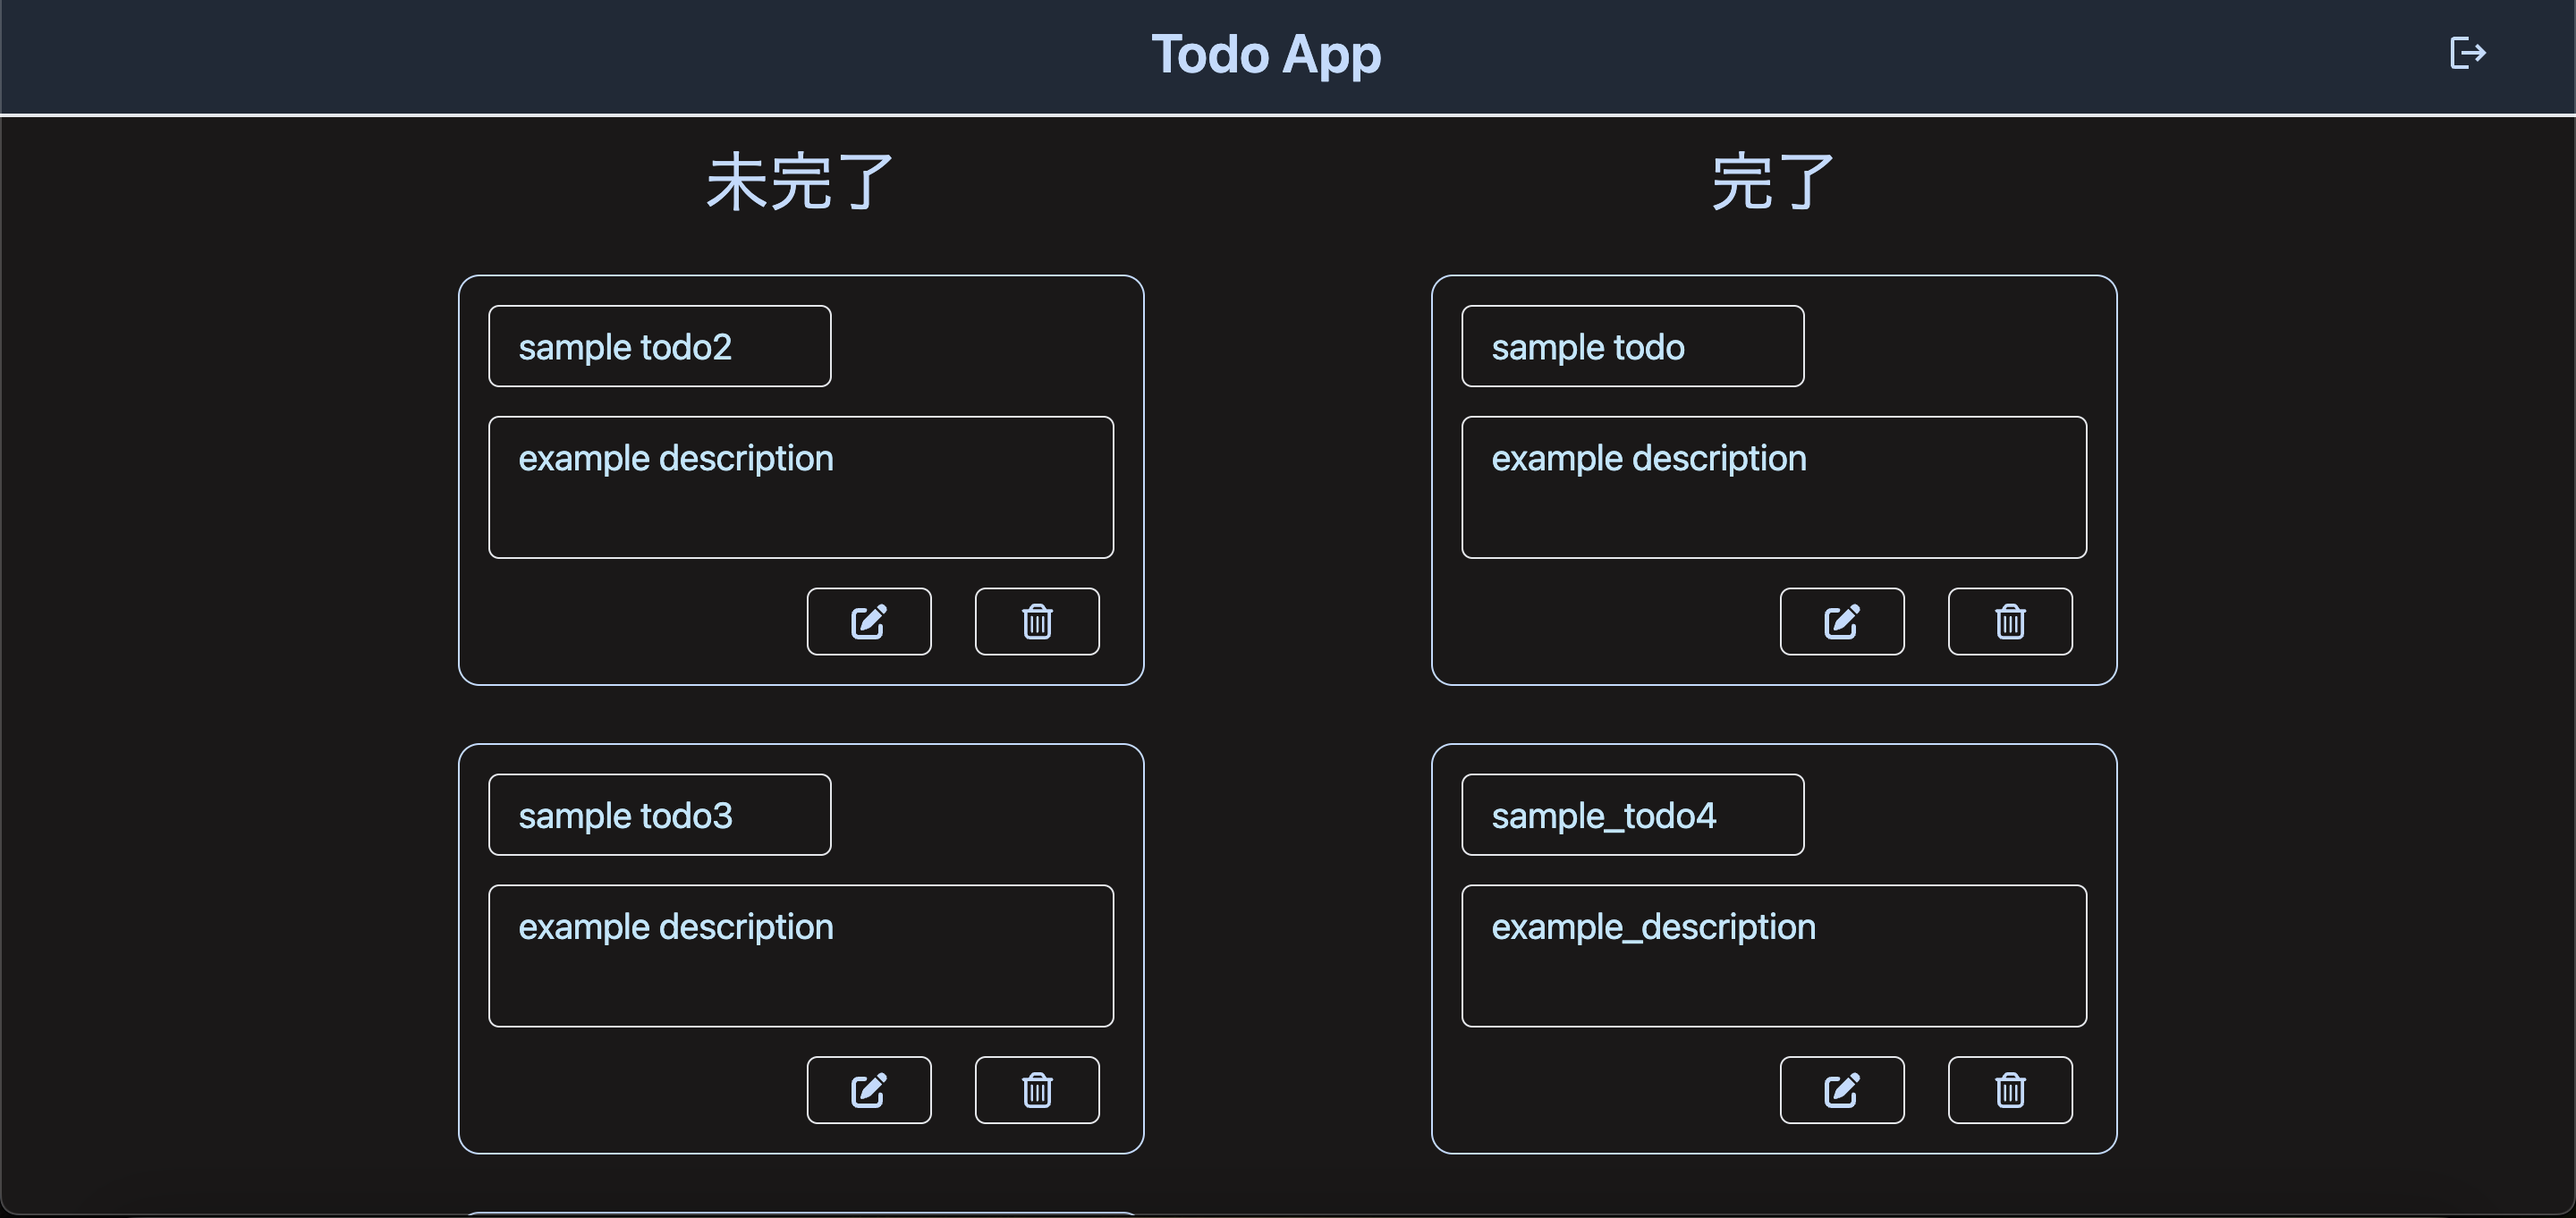
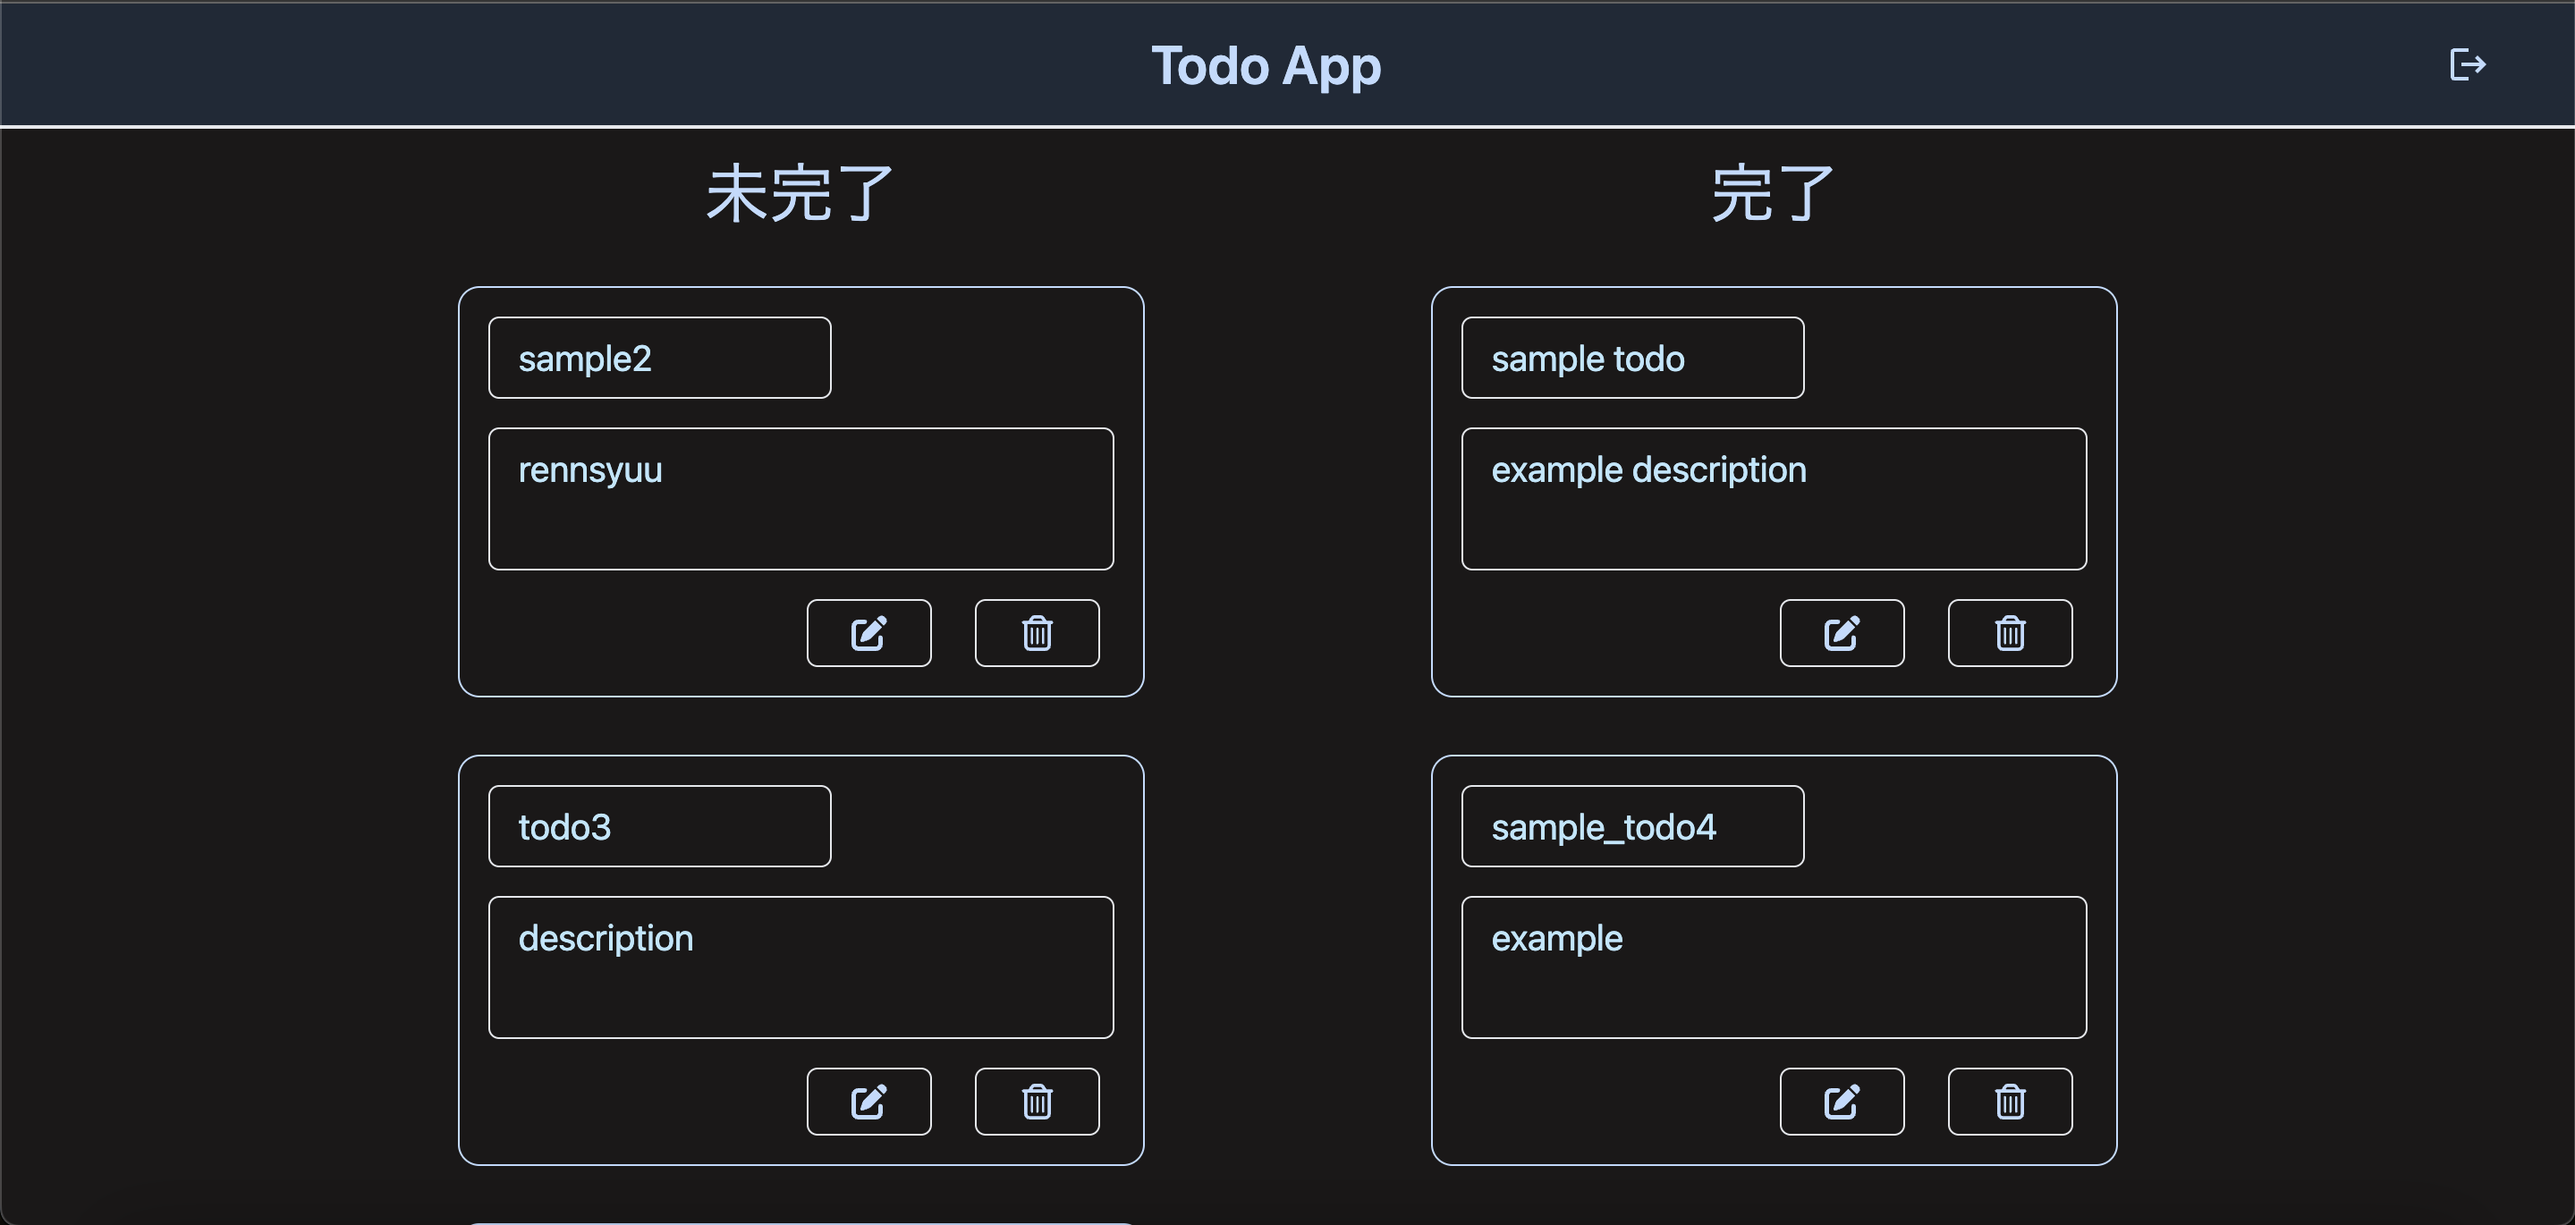
fix todo top

diff --git a/frontend/src/components/TodoList.jsx b/frontend/src/components/TodoList.jsx
@@ -14,22 +14,22 @@ const sample = [
   },
   {
     "id": 2,
-    "name": "sample todo2",
-    "description": "example description",
+    "name": "sample2",
+    "description": "rennsyuu",
     "complete": false,
     "updated_at": "2024-02-08T11:23:36.121Z"
   },
   {
     "id": 3,
-    "name": "sample todo3",
-    "description": "example description",
+    "name": "todo3",
+    "description": "description",
     "complete": false,
     "updated_at": "2024-02-08T11:23:36.121Z"
   },
   {
     "id": 4,
     "name": "sample_todo4",
-    "description": "example_description",
+    "description": "example",
     "complete": true,
     "updated_at": "2024-02-08T11:23:36.121Z"
   },

diff --git a/README.md b/README.md
@@ -9,6 +9,8 @@
 * useContextによるグローバル変数
 * TailwindCSSによるスタイリング
 
+* (未)CRUDとキャッシュ
+
 ![](./imgs/top_page.png)
 
 
